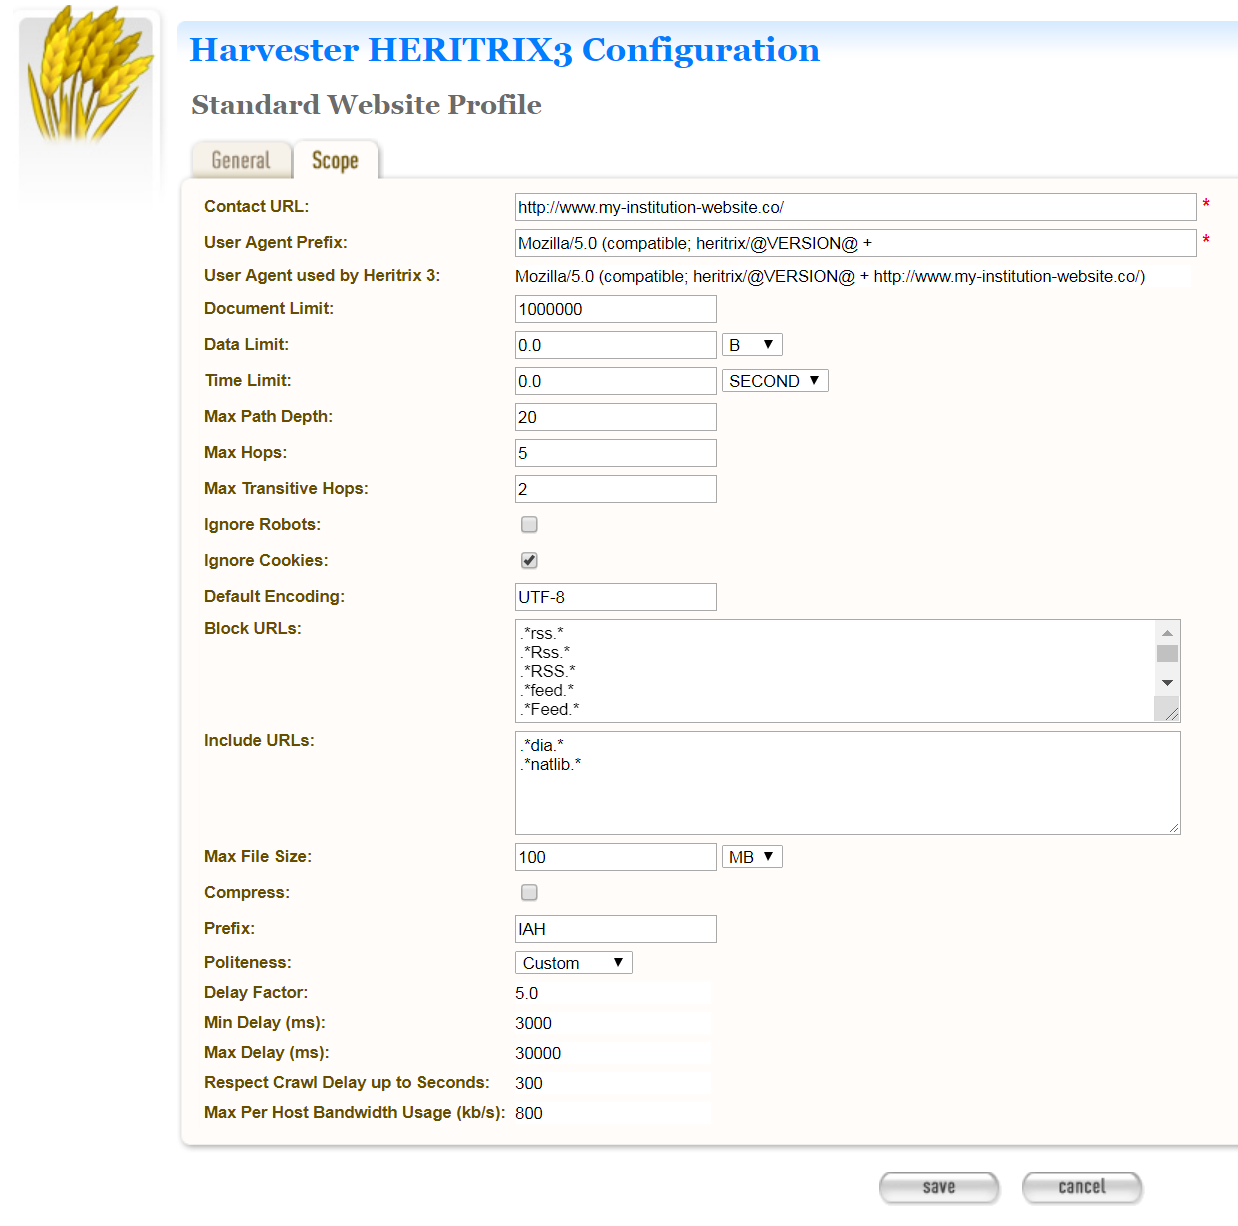
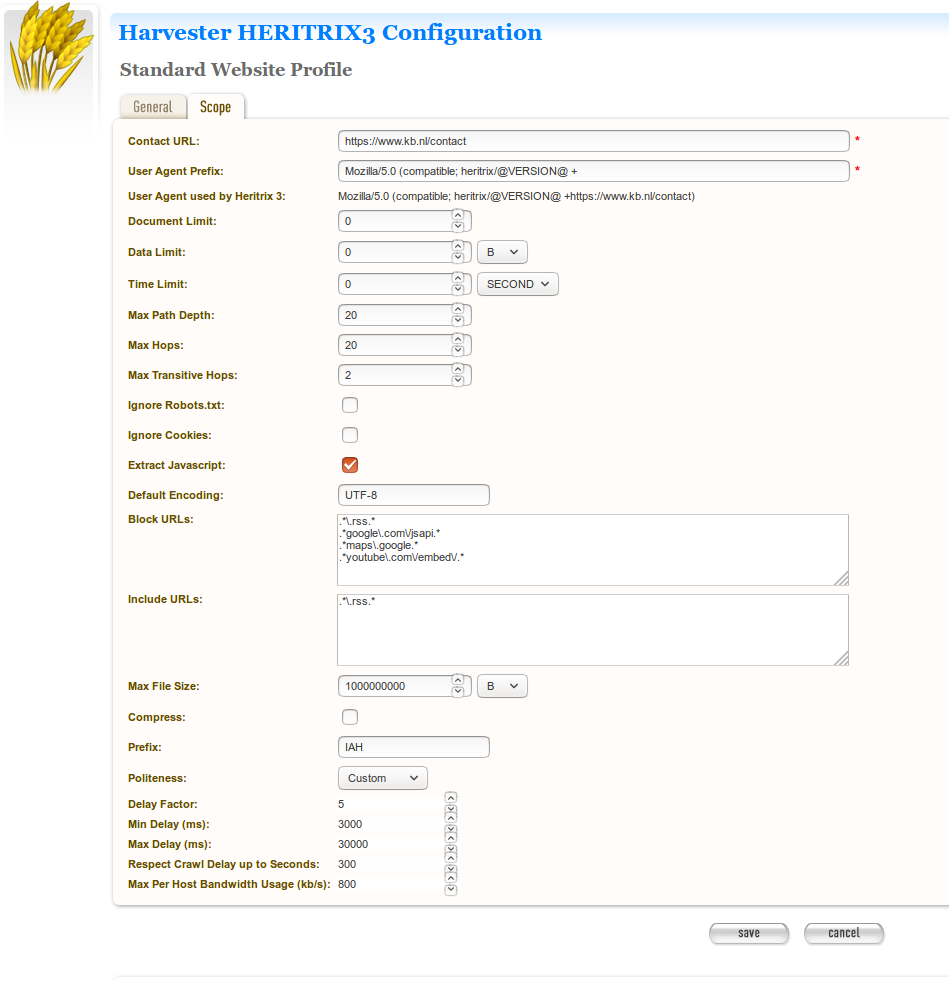
#105: Documented this new option in the user manual and the change log

diff --git a/docs/guides/user-manual.rst b/docs/guides/user-manual.rst
@@ -3397,6 +3397,9 @@ editing information about profiles.
     +-----------------------+-----------------------------------+
     | Ignore Cookies        | Disable cookie handling.          |
     +-----------------------+-----------------------------------+
+    | Extract Javascript    | Toggle the extraction of URLs     |
+    |                       | from javacript code.              |
+    +-----------------------+-----------------------------------+
     | Default Encoding      | The character encoding to use for |
     |                       | files that do not have one        |
     |                       | specified in the HTTP response    |

diff --git a/docs/guides/release-notes.rst b/docs/guides/release-notes.rst
@@ -44,8 +44,9 @@ following sections:
 Changes since 2.0.1
 ===================
 
-This is a placeholder for changes since the official *2.0.1* release. Please
-add notes here for changes and fixes as they are released into the master branch.
+-  The profile editor now allows users to turn off javascript extraction (the speculative 
+   derivation of URLs from javascript code in webpages). This toggle has also been added to
+   the various profile override screens.
 
 
 2.0.1
